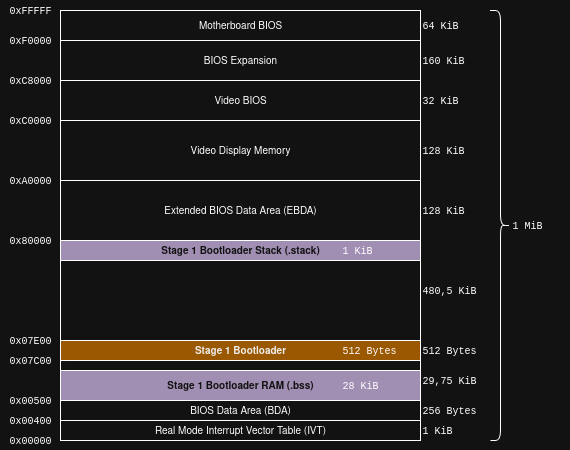
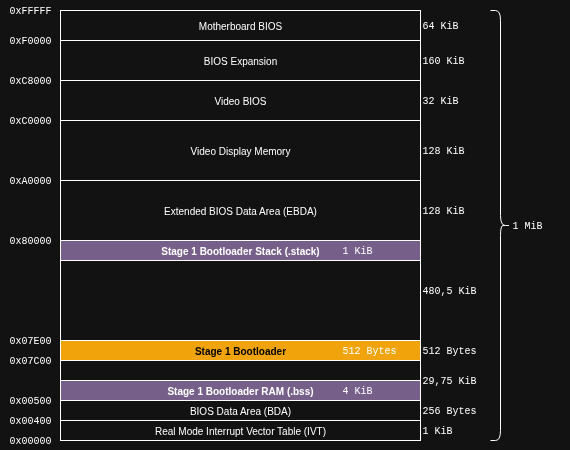
Reduced RAM size for Stage 1

diff --git a/doc/components/Bootloader/Stage1.md b/doc/components/Bootloader/Stage1.md
@@ -78,7 +78,7 @@ For the Stage 1 bootloader this is pretty simple: The BIOS loads the complete bo
 #### Stage 1 RAM
 The bootloader needs also sometimes variables to store information and data for further processing. This is realized by providing a `.bss` section where the assembler can put variables in. This memory section is not initialized. But due to the fact that it is not initialized, we can use much more than we have in the `.data` section because we can place the `.bss` section in any unsued memory area of the PC.
 
-For the Stage 1 bootloader I put the `.bss` memory section in a unused memory area between the BIOS Data Area and the bootloader code itself. The reserved area occupies 28 KiB. This is way too much for the Stage 1 bootloader but we will also re-use this area for Stage 2.
+For the Stage 1 bootloader I put the `.bss` memory section in a unused memory area between the BIOS Data Area and the bootloader code itself. The reserved area occupies 4 KiB.
 
 #### Stage 1 Stack
 This memory area is really super special and completely unusual for a bootloader. In most simple bootloaders, only the Stack-Pointer of the processor is set to a fixed address and starting on this address, the processor manages the Stack-Pointer during `push` and `pop` instructions.
@@ -114,7 +114,7 @@ BOOTLOADER_STAGE2_LENGHT  = 64K;
  * .data section must reside in the bootloader binary
  */
 BOOT_RAM_ADR        = 0x0500;
-BOOT_RAM_SIZE       = 28K;
+BOOT_RAM_SIZE       = 4K;
 
 /*
  * Defines the address (offset and segment) and size of the Stack for Stage1
